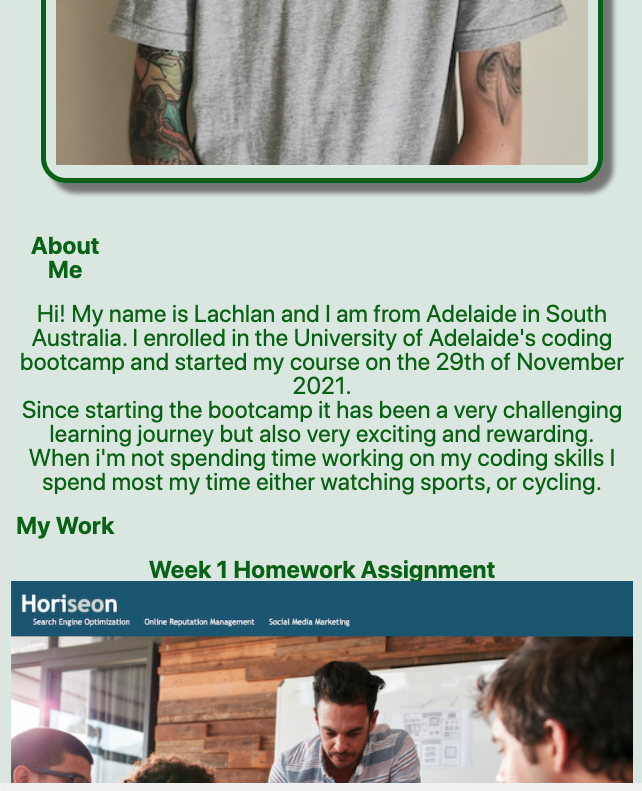
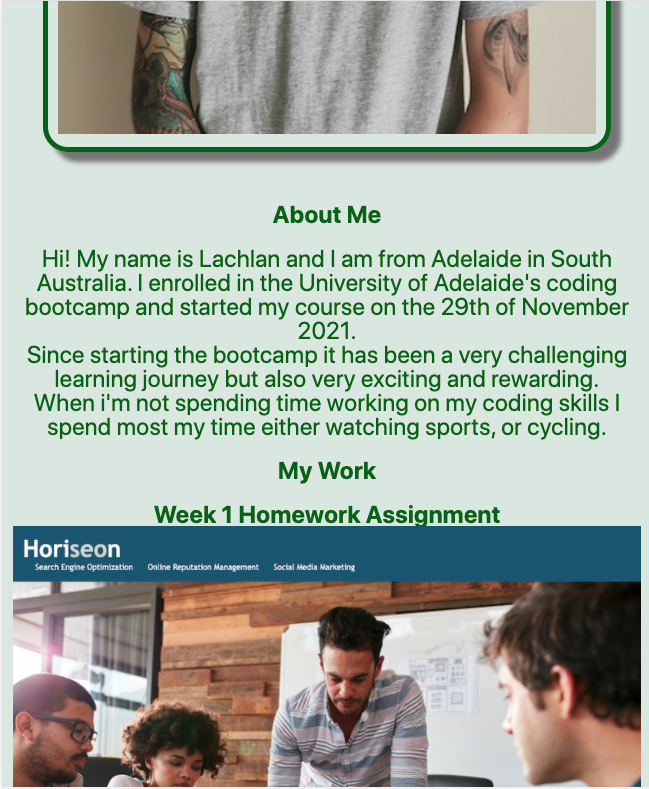
read me updated

diff --git a/README.md b/README.md
@@ -34,7 +34,7 @@ The following image shows the web application's appearance
 ![About me section](screenshot7.png)
 
 
-> **Note**: This shows the appearance of the wabpage on a smaller device such as a tablet. As you can see the side bar is gone and the smaller images of work have arranged on top of eachother on top of the larger image
+> **Note**: This shows the appearance of the wabpage on a smaller device such as a tablet. As you can see the side bar is gone and the smaller images of work have arranged on top of eachother on top of the larger image and also the headings that were in the sidebar have been centered.
 
 ![No side bar](screenshot8.png)
 
